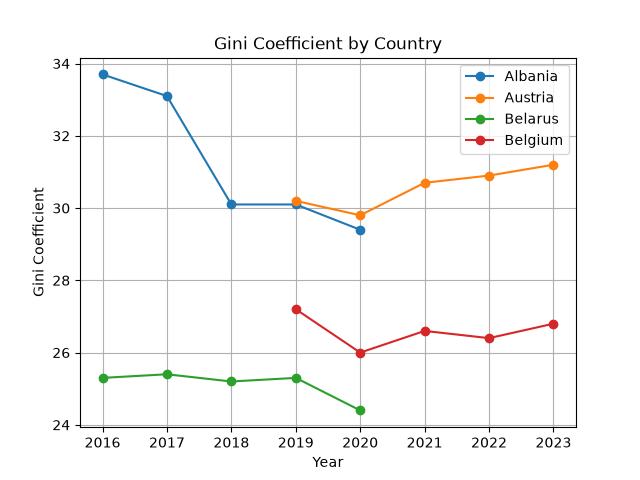
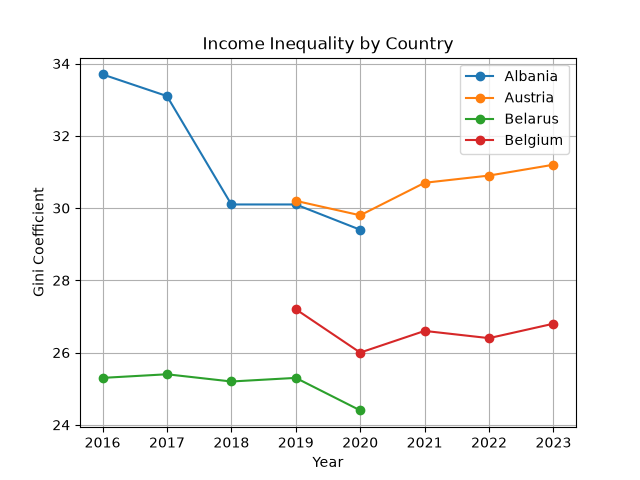
Edited title of Graph

Changed region(s): [[0.3125, 0.0625, 0.7188, 0.125]]

diff --git a/week-11/final-project/main.py b/week-11/final-project/main.py
@@ -105,7 +105,7 @@ def graphing(data, region_input):
     
     plt.xlabel("Year")
     plt.ylabel("Gini Coefficient")
-    plt.title("Gini Coefficient by Country")
+    plt.title("Income Inequality by Country")
     plt.grid(True)
     plt.legend()
     plt.savefig('gini_by_country_' + region_input.capitalize() + '.png')

diff --git a/week-11/final-project/README.md b/week-11/final-project/README.md
@@ -45,7 +45,7 @@ If an unexpected value is inputted, the user will receive the following output i
 
 Running this code produces a line graph showing each country's gini coefficients by year in the region searched by the user. The x axis contains the years corresponding to the gini coefficient data collected. The y axis corresponds to the gini coefficient. This image answers the question: How does income inequality fluctuate over time for countries in a given region?
 
-<img width="640" height="480" alt="Figure_1" src="https://github.com/user-attachments/assets/48b9b0cf-983c-422a-ab31-138dcb55a2b1" />
+<c:\Users\lswag\Downloads\Figure_1.png/>
 
 The main takeaway of this graph is both to visually show how inequality fluctutates in countries throughout time, and how countries compare to one another in terms of inequality. A second takeaway is to show how the lack of consistently collected data can skew results.
 
